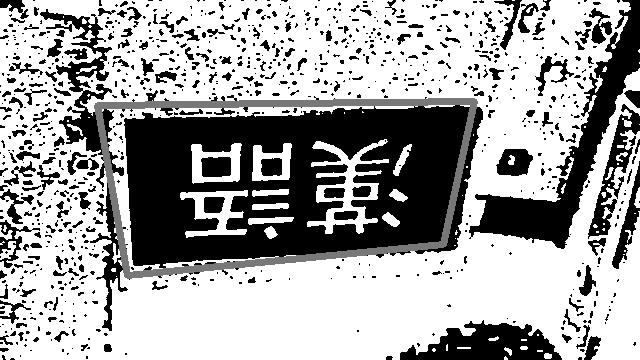
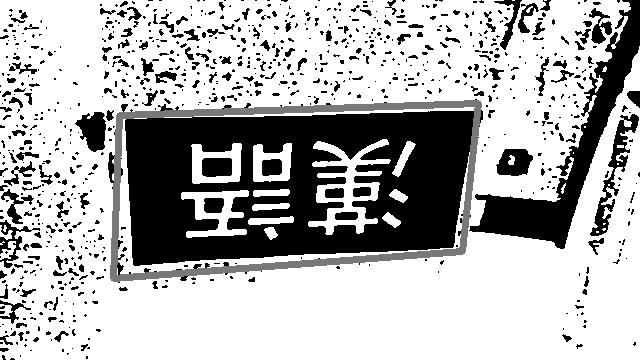
twiddled parameters a bit, improved speed, commented cropping code and ran on video of chinese characters; results not encouraging

diff --git a/qrTrackerPython/kalman_track_frames.py b/qrTrackerPython/kalman_track_frames.py
@@ -29,8 +29,8 @@ ADD CODE HERE.
 # initialize color filter parameters
 UPPERBOUND_ORANGE = 25
 LOWERBOUND_ORANGE = 110
-UPPERBOUND_LUM = 140
-LOWERBOUND_LUM = 20
+UPPERBOUND_LUM = 180
+LOWERBOUND_LUM = 55
 MEDIANSIZE = 3
 MATCHINGTHRESH = 0.45
 SCALE = 0.5
@@ -41,20 +41,31 @@ last_botright = None
 CROPFACTOR = 1.5
 frame = 1
 
+# color filtering
+def filter_color(img):
+
+    # convert to hsv
+    hsv = cv2.cvtColor(img, cv2.COLOR_RGB2HSV)
+    hue = hsv[:,:,0]
+
+    # threshold
+    gray = hsv[:,:,2]
+    indices = np.logical_or(np.logical_and(hue > UPPERBOUND_ORANGE, 
+                                           hue < LOWERBOUND_ORANGE),
+                            gray < LOWERBOUND_LUM, 
+                            gray > UPPERBOUND_LUM)
+    gray[indices] = 255
+    gray[np.logical_not(indices)] = 0
+    gray = cv2.medianBlur(gray, MEDIANSIZE)
+
+    return gray
+
+
 # process example (see below for comments)
 ex = cv2.imread(IMGPATH + EXFILENAME)
 ex = cv2.resize(ex, (int(round(ex.shape[1]*SCALE)), 
                      int(round(ex.shape[0]*SCALE))))
-hsv_ex = cv2.cvtColor(ex, cv2.COLOR_RGB2HSV)
-hue_ex = hsv_ex[:,:,0]
-gray_ex = cv2.cvtColor(ex, cv2.COLOR_RGB2GRAY)
-indices_ex = np.logical_or(np.logical_and(hue_ex > UPPERBOUND_ORANGE, 
-                                          hue_ex < LOWERBOUND_ORANGE),
-                           gray_ex < LOWERBOUND_LUM,
-                           gray_ex > UPPERBOUND_LUM)
-gray_ex[indices_ex] = 255
-gray_ex[np.logical_not(indices_ex)] = 0
-gray_ex = cv2.medianBlur(gray_ex, MEDIANSIZE)
+gray_ex = filter_color(ex)
 orb = cv2.ORB()
 kp_ex, des_ex = orb.detectAndCompute(gray_ex, None)
 bf = cv2.BFMatcher(normType = cv2.NORM_HAMMING)
@@ -74,88 +85,85 @@ while os.path.isfile(VIDEOPATH + VIDEOBASENAME % frame):
                                      int(round(test_big.shape[0]*SCALE))))
     test = test_big
     offset = (0, 0)
-    if (last_topleft is not None) and (last_botright is not None):
-        mid_row = 0.5 * (last_topleft[0] + last_botright[0])
-        mid_col = 0.5 * (last_topleft[1] + last_botright[1])
-        width = last_botright[0] - last_topleft[0]
-        height = last_botright[1] - last_topleft[1]
-        
-        min_row = max(int(mid_row - CROPFACTOR * width/2.0), 0)
-        max_row = min(int(mid_row + CROPFACTOR * width/2.0), 
-                           test.shape[0])
-        min_col = max(int(mid_col - CROPFACTOR * height/2.0), 0)
-        max_col = min(int(mid_col + CROPFACTOR * height/2.0),
-                           test.shape[1])
-        
-        offset = (min_row, min_col)
-        print offset
-        test = test[min_row:max_row, min_col:max_col, :]
-
-    # convert to grayscale
-    hsv_test = cv2.cvtColor(test, cv2.COLOR_RGB2HSV)
-    hue_test = hsv_test[:,:,0]
-    gray_test = cv2.cvtColor(test, cv2.COLOR_RGB2GRAY)
+#    if (last_topleft is not None) and (last_botright is not None):
+#        mid_row = 0.5 * (last_topleft[0] + last_botright[0])
+#        mid_col = 0.5 * (last_topleft[1] + last_botright[1])
+#        width = last_botright[0] - last_topleft[0]
+#        height = last_botright[1] - last_topleft[1]
+#        
+#        min_row = max(int(mid_row - CROPFACTOR * width/2.0), 0)
+#        max_row = min(int(mid_row + CROPFACTOR * width/2.0), 
+#                           test.shape[0])
+#        min_col = max(int(mid_col - CROPFACTOR * height/2.0), 0)
+#        max_col = min(int(mid_col + CROPFACTOR * height/2.0),
+#                           test.shape[1])
+#       
+#        offset = (min_row, min_col)
+#        test = test[min_row:max_row, min_col:max_col, :]
 
     # filter colors
-    indices_test = np.logical_or(np.logical_and(hue_test > UPPERBOUND_ORANGE, 
-                                                hue_test < LOWERBOUND_ORANGE),
-                                 gray_test < LOWERBOUND_LUM,
-                                 gray_test > UPPERBOUND_LUM)
-    gray_test[indices_test] = 255
-    gray_test[np.logical_not(indices_test)] = 0
-    gray_test = cv2.medianBlur(gray_test, MEDIANSIZE)
+    gray_test = filter_color(test)
 
     # find ORB keypoints
     kp_test, des_test = orb.detectAndCompute(gray_test, None)
 
-    # do feature matching
-    matches_ex = bf.knnMatch(des_ex, des_test, k=2)
+    if len(kp_test) > 0:
 
-    # ratio test
-    good_matches_ex = []
-    for m,n in matches_ex:
-        if m.distance < MATCHINGTHRESH*n.distance:
-            good_matches_ex.append(m)
+        # do feature matching
+        matches_ex = bf.knnMatch(des_ex, des_test, k=2)
 
-    # halt if not enough good matches
-    if len(good_matches_ex) < 4:
-        print "Not enough good matches to estimate a homography."
+        # ratio test
+        good_matches_ex = []
+        for m,n in matches_ex:
+            if m.distance < MATCHINGTHRESH * n.distance:
+                good_matches_ex.append(m)
+
+        # halt if not enough good matches
+        if len(good_matches_ex) < 4:
+            print "Not enough good matches to estimate a homography."
+            frame = frame + 1
+            last_topleft = None
+            last_topright = None
+            offset = (0, 0)
+
+        else:
+    
+            # estimate homography
+            pts_ex = np.float32([kp_ex[m.queryIdx].pt 
+                                 for m in good_matches_ex]).reshape(-1,1,2)
+            pts_test = np.float32([kp_test[m.trainIdx].pt 
+                                   for m in good_matches_ex]).reshape(-1,1,2)
+            H, mask = cv2.findHomography(pts_ex, pts_test, cv2.RANSAC, 5.0)
+            
+            # draw boundary of ex code
+            corners_test = cv2.perspectiveTransform(corners_ex, H)
+            cv2.polylines(gray_test, [np.int32(corners_test)], True, 120, 5)
+
+            # update last corner coordinates
+            last_topleft = (offset[0] + min(
+                    min(corners_test[0,0,1], corners_test[1,0,1]),
+                    min(corners_test[2,0,1], corners_test[3,0,1])),
+                            offset[1] + min(
+                    min(corners_test[0,0,0], corners_test[1,0,0]),
+                    min(corners_test[2,0,0], corners_test[3,0,0])))
+            last_botright = (offset[0] + max(
+                    max(corners_test[0,0,1], corners_test[1,0,1]),
+                    max(corners_test[2,0,1], corners_test[3,0,1])),
+                             offset[1] + max(
+                    max(corners_test[0,0,0], corners_test[1,0,0]),
+                    max(corners_test[2,0,0], corners_test[3,0,0])))
+            
+            # print elapsed time
+            print ("Total elapsed time for frame " + str(frame) + ": " + 
+                   str(time.time() - starttime) + " seconds")
+
+            # save frame
+            misc.imsave(OUTPUTPATH + OUTPUTBASENAME % frame, gray_test)
+            frame = frame + 1
+
+    else:
+        print "No keypoints found in frame " + str(frame) + "."
         frame = frame + 1
         last_topleft = None
         last_topright = None
         offset = (0, 0)
-
-    else:
-    
-        # estimate homography
-        pts_ex = np.float32([kp_ex[m.queryIdx].pt 
-                             for m in good_matches_ex]).reshape(-1,1,2)
-        pts_test = np.float32([kp_test[m.trainIdx].pt 
-                               for m in good_matches_ex]).reshape(-1,1,2)
-        H, mask = cv2.findHomography(pts_ex, pts_test, cv2.RANSAC, 5.0)
-        
-        # draw boundary of ex code
-        corners_test = cv2.perspectiveTransform(corners_ex, H)
-        cv2.polylines(gray_test, [np.int32(corners_test)], True, 120, 5)
-
-        # update last corner coordinates
-        last_topleft = (offset[0] + min(
-                    min(corners_test[0,0,1], corners_test[1,0,1]),
-                    min(corners_test[2,0,1], corners_test[3,0,1])),
-                        offset[1] + min(
-                    min(corners_test[0,0,0], corners_test[1,0,0]),
-                    min(corners_test[2,0,0], corners_test[3,0,0])))
-        last_botright = (offset[0] + max(
-                    max(corners_test[0,0,1], corners_test[1,0,1]),
-                    max(corners_test[2,0,1], corners_test[3,0,1])),
-                         offset[1] + max(
-                    max(corners_test[0,0,0], corners_test[1,0,0]),
-                    max(corners_test[2,0,0], corners_test[3,0,0])))
-
-        # print elapsed time
-        print ("Total elapsed time for frame " + str(frame) + ": " + 
-               str(time.time() - starttime) + " seconds")
-
-        # save frame
-        misc.imsave(OUTPUTPATH + OUTPUTBASENAME % frame, gray_test)
-        frame = frame + 1

diff --git a/qrTrackerPython/test_orb_matching.py b/qrTrackerPython/test_orb_matching.py
@@ -13,15 +13,38 @@ import drawMatches
 import time, sys
 
 # global parameters
-MATCHINGTHRESH = 0.5
+MATCHINGTHRESH = 0.45
 SCALE = 0.5
-MEDIANSIZE = 5
 
 # file paths
 IMGPATH = "../videos/orange_chinese/frames/"
 TEMPPATH = "../images/"
 TEMPFILENAME = "orange_chinese.JPG"
-TESTFILENAME = "orange_chinese0003.jpg"
+TESTFILENAME = "orange_chinese0001.jpg"
+
+# color filtering
+def filter_color(img):
+    UPPERBOUND_ORANGE = 25
+    LOWERBOUND_ORANGE = 110
+    UPPERBOUND_LUM = 180
+    LOWERBOUND_LUM = 55
+    MEDIANSIZE = 3
+
+    # convert to hsv
+    hsv = cv2.cvtColor(img, cv2.COLOR_RGB2HSV)
+    hue = hsv[:,:,0]
+
+    # threshold
+    gray = hsv[:,:,2]
+    indices = np.logical_or(np.logical_and(hue > UPPERBOUND_ORANGE, 
+                                           hue < LOWERBOUND_ORANGE),
+                            gray < LOWERBOUND_LUM, 
+                            gray > UPPERBOUND_LUM)
+    gray[indices] = 255
+    gray[np.logical_not(indices)] = 0
+    gray = cv2.medianBlur(gray, MEDIANSIZE)
+
+    return gray
 
 # read images
 test = cv2.imread(IMGPATH + TESTFILENAME)
@@ -45,38 +68,9 @@ temp = cv2.resize(temp, (int(round(temp.shape[1]*SCALE)),
 #im[paste_loc[1]:(paste_loc[1] + scaled_temp.shape[1]), 
 #   paste_loc[0]:(paste_loc[0] + scaled_temp.shape[0])] = scaled_temp
 
-# convert to grayscale
-hsv_temp = cv2.cvtColor(temp, cv2.COLOR_RGB2HSV)
-hue_temp = hsv_temp[:,:,0]
-gray_temp = cv2.cvtColor(temp, cv2.COLOR_RGB2GRAY)
-
-
-hsv_test = cv2.cvtColor(test, cv2.COLOR_RGB2HSV)
-hue_test = hsv_test[:,:,0]
-gray_test = cv2.cvtColor(test, cv2.COLOR_RGB2GRAY)
-
 # filter colors
-UPPERBOUND_ORANGE = 25
-LOWERBOUND_ORANGE = 110
-UPPERBOUND_LUM = 140
-LOWERBOUND_LUM = 20
-
-indices_temp = np.logical_or(np.logical_and(hue_temp > UPPERBOUND_ORANGE, 
-                                            hue_temp < LOWERBOUND_ORANGE),
-                             gray_temp < LOWERBOUND_LUM, 
-                             gray_temp > UPPERBOUND_LUM)
-gray_temp[indices_temp] = 255
-gray_temp[np.logical_not(indices_temp)] = 0
-
-indices_test = np.logical_or(np.logical_and(hue_test > UPPERBOUND_ORANGE, 
-                                            hue_test < LOWERBOUND_ORANGE),
-                             gray_test < LOWERBOUND_LUM,
-                             gray_test > UPPERBOUND_LUM)
-gray_test[indices_test] = 255
-gray_test[np.logical_not(indices_test)] = 0
-
-gray_temp = cv2.medianBlur(gray_temp, MEDIANSIZE)
-gray_test = cv2.medianBlur(gray_test, MEDIANSIZE)
+gray_temp = filter_color(temp)
+gray_test = filter_color(test)
 
 # start timer
 starttime = time.time()
